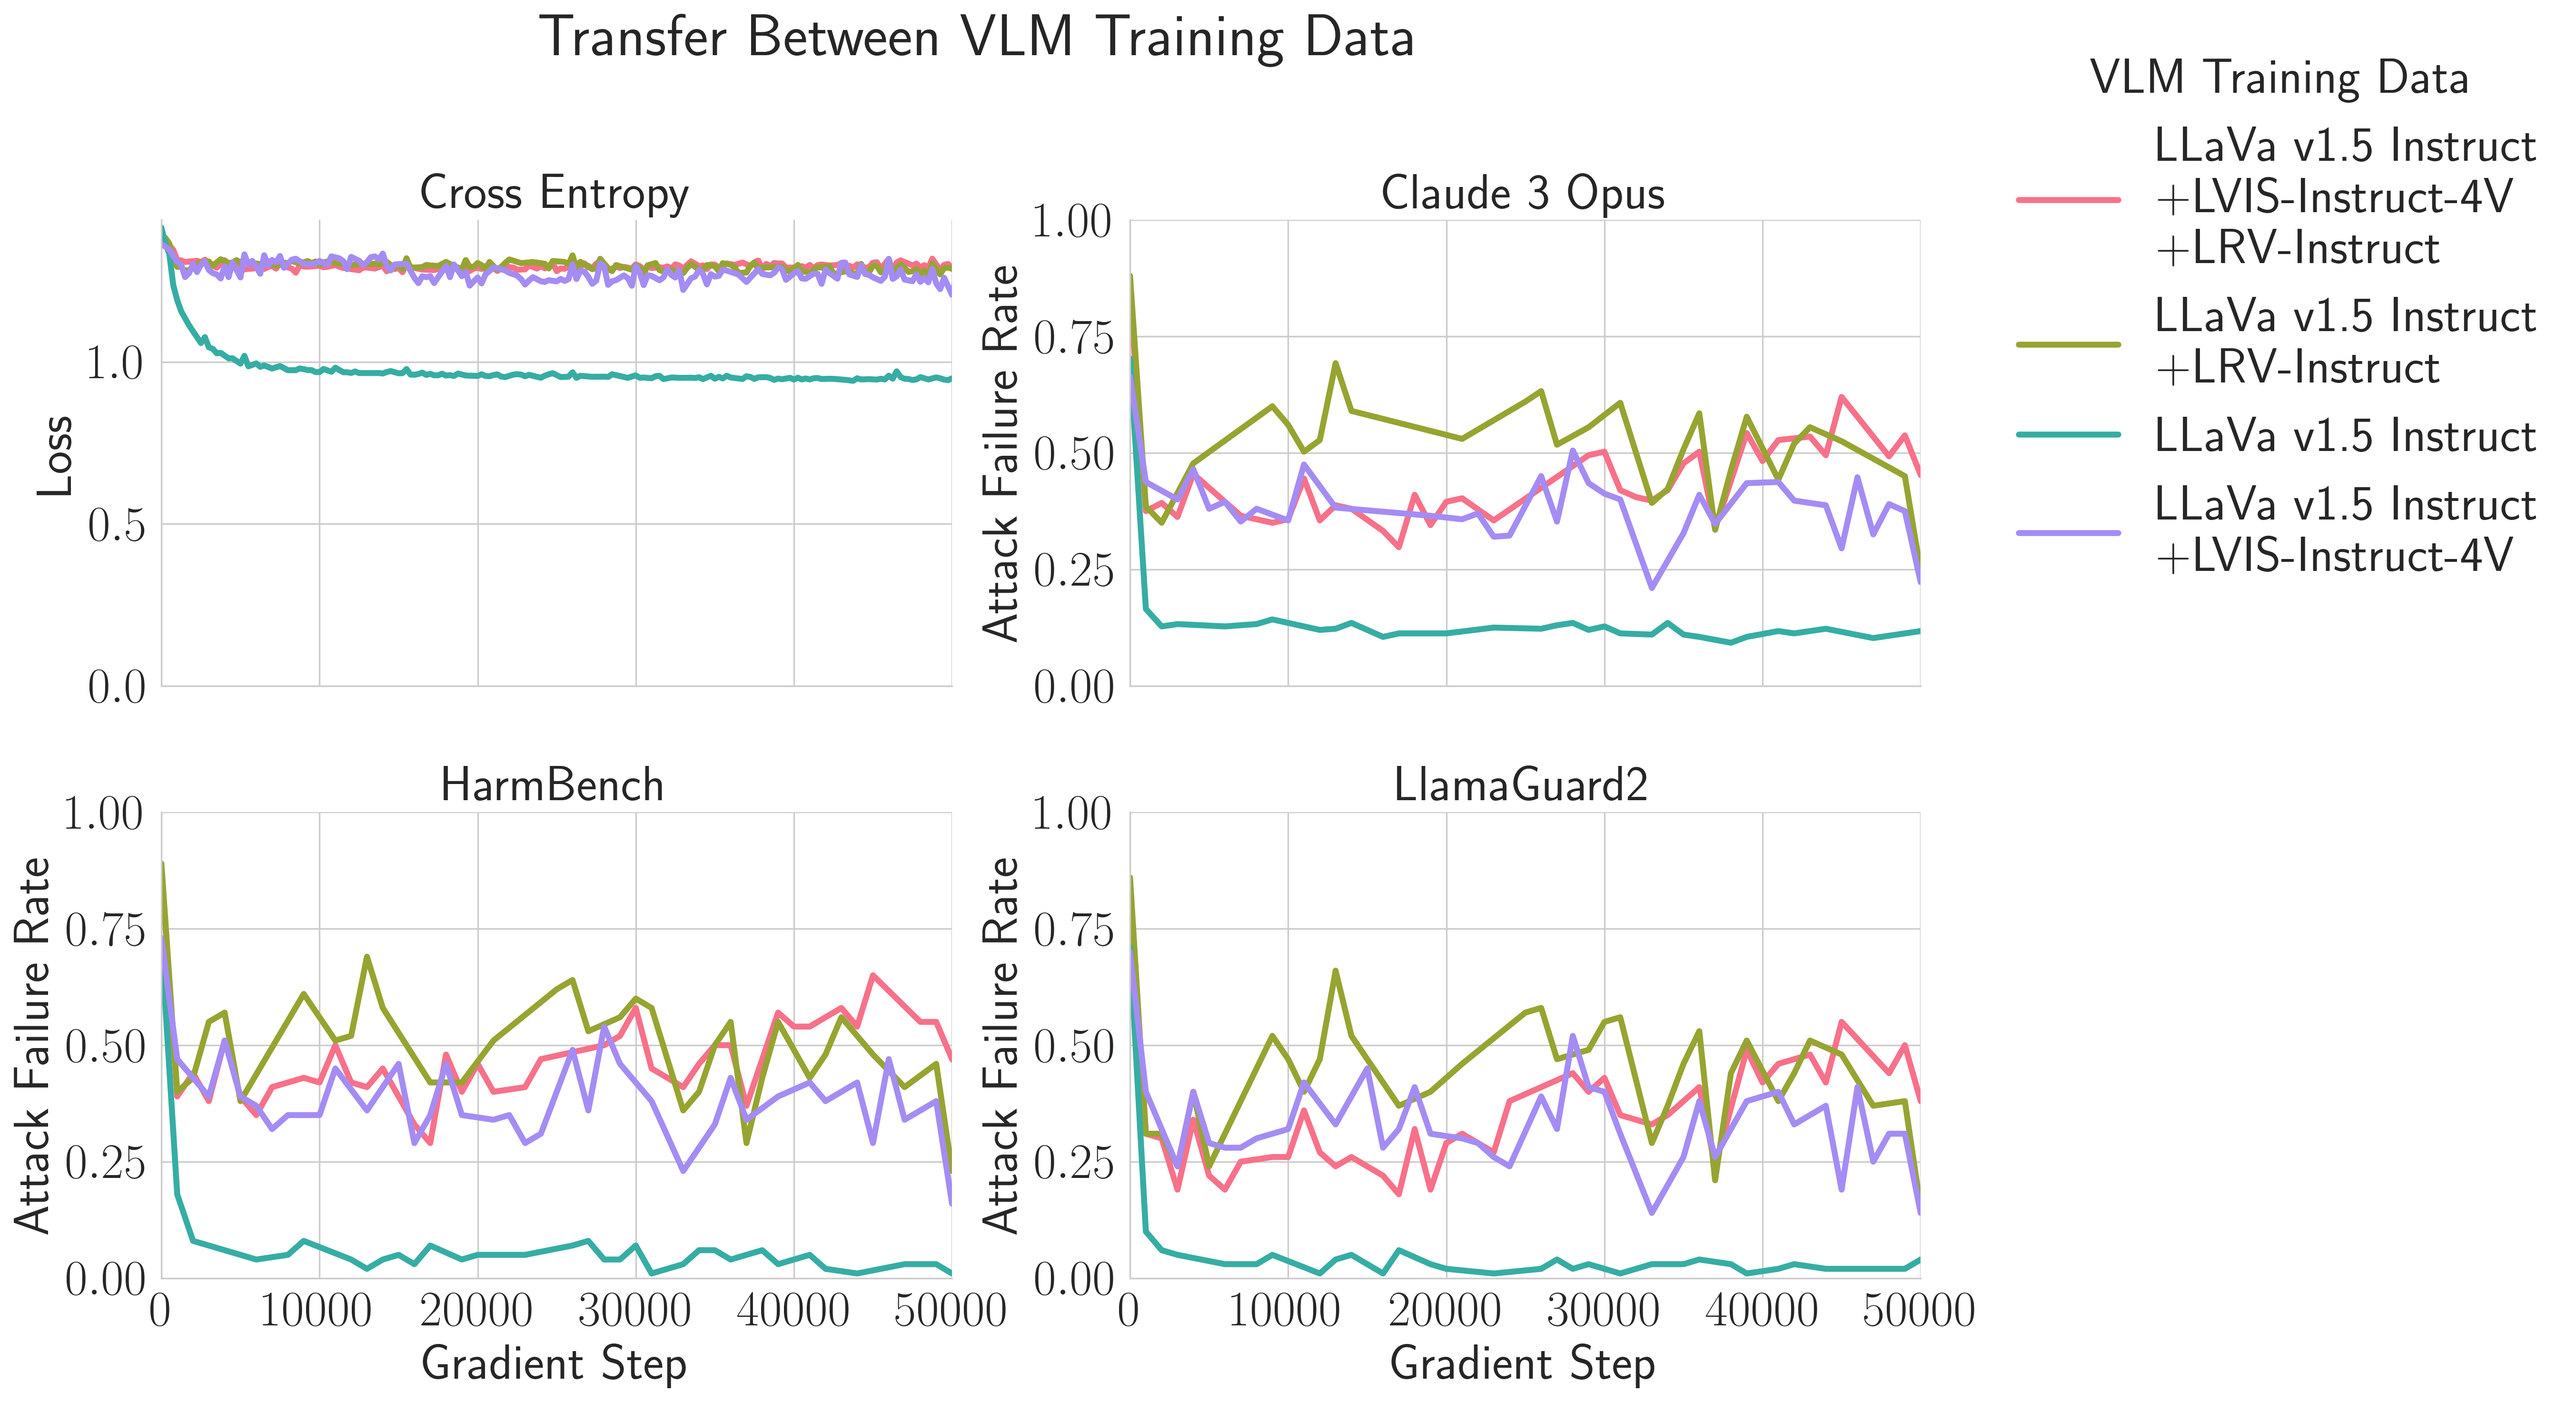
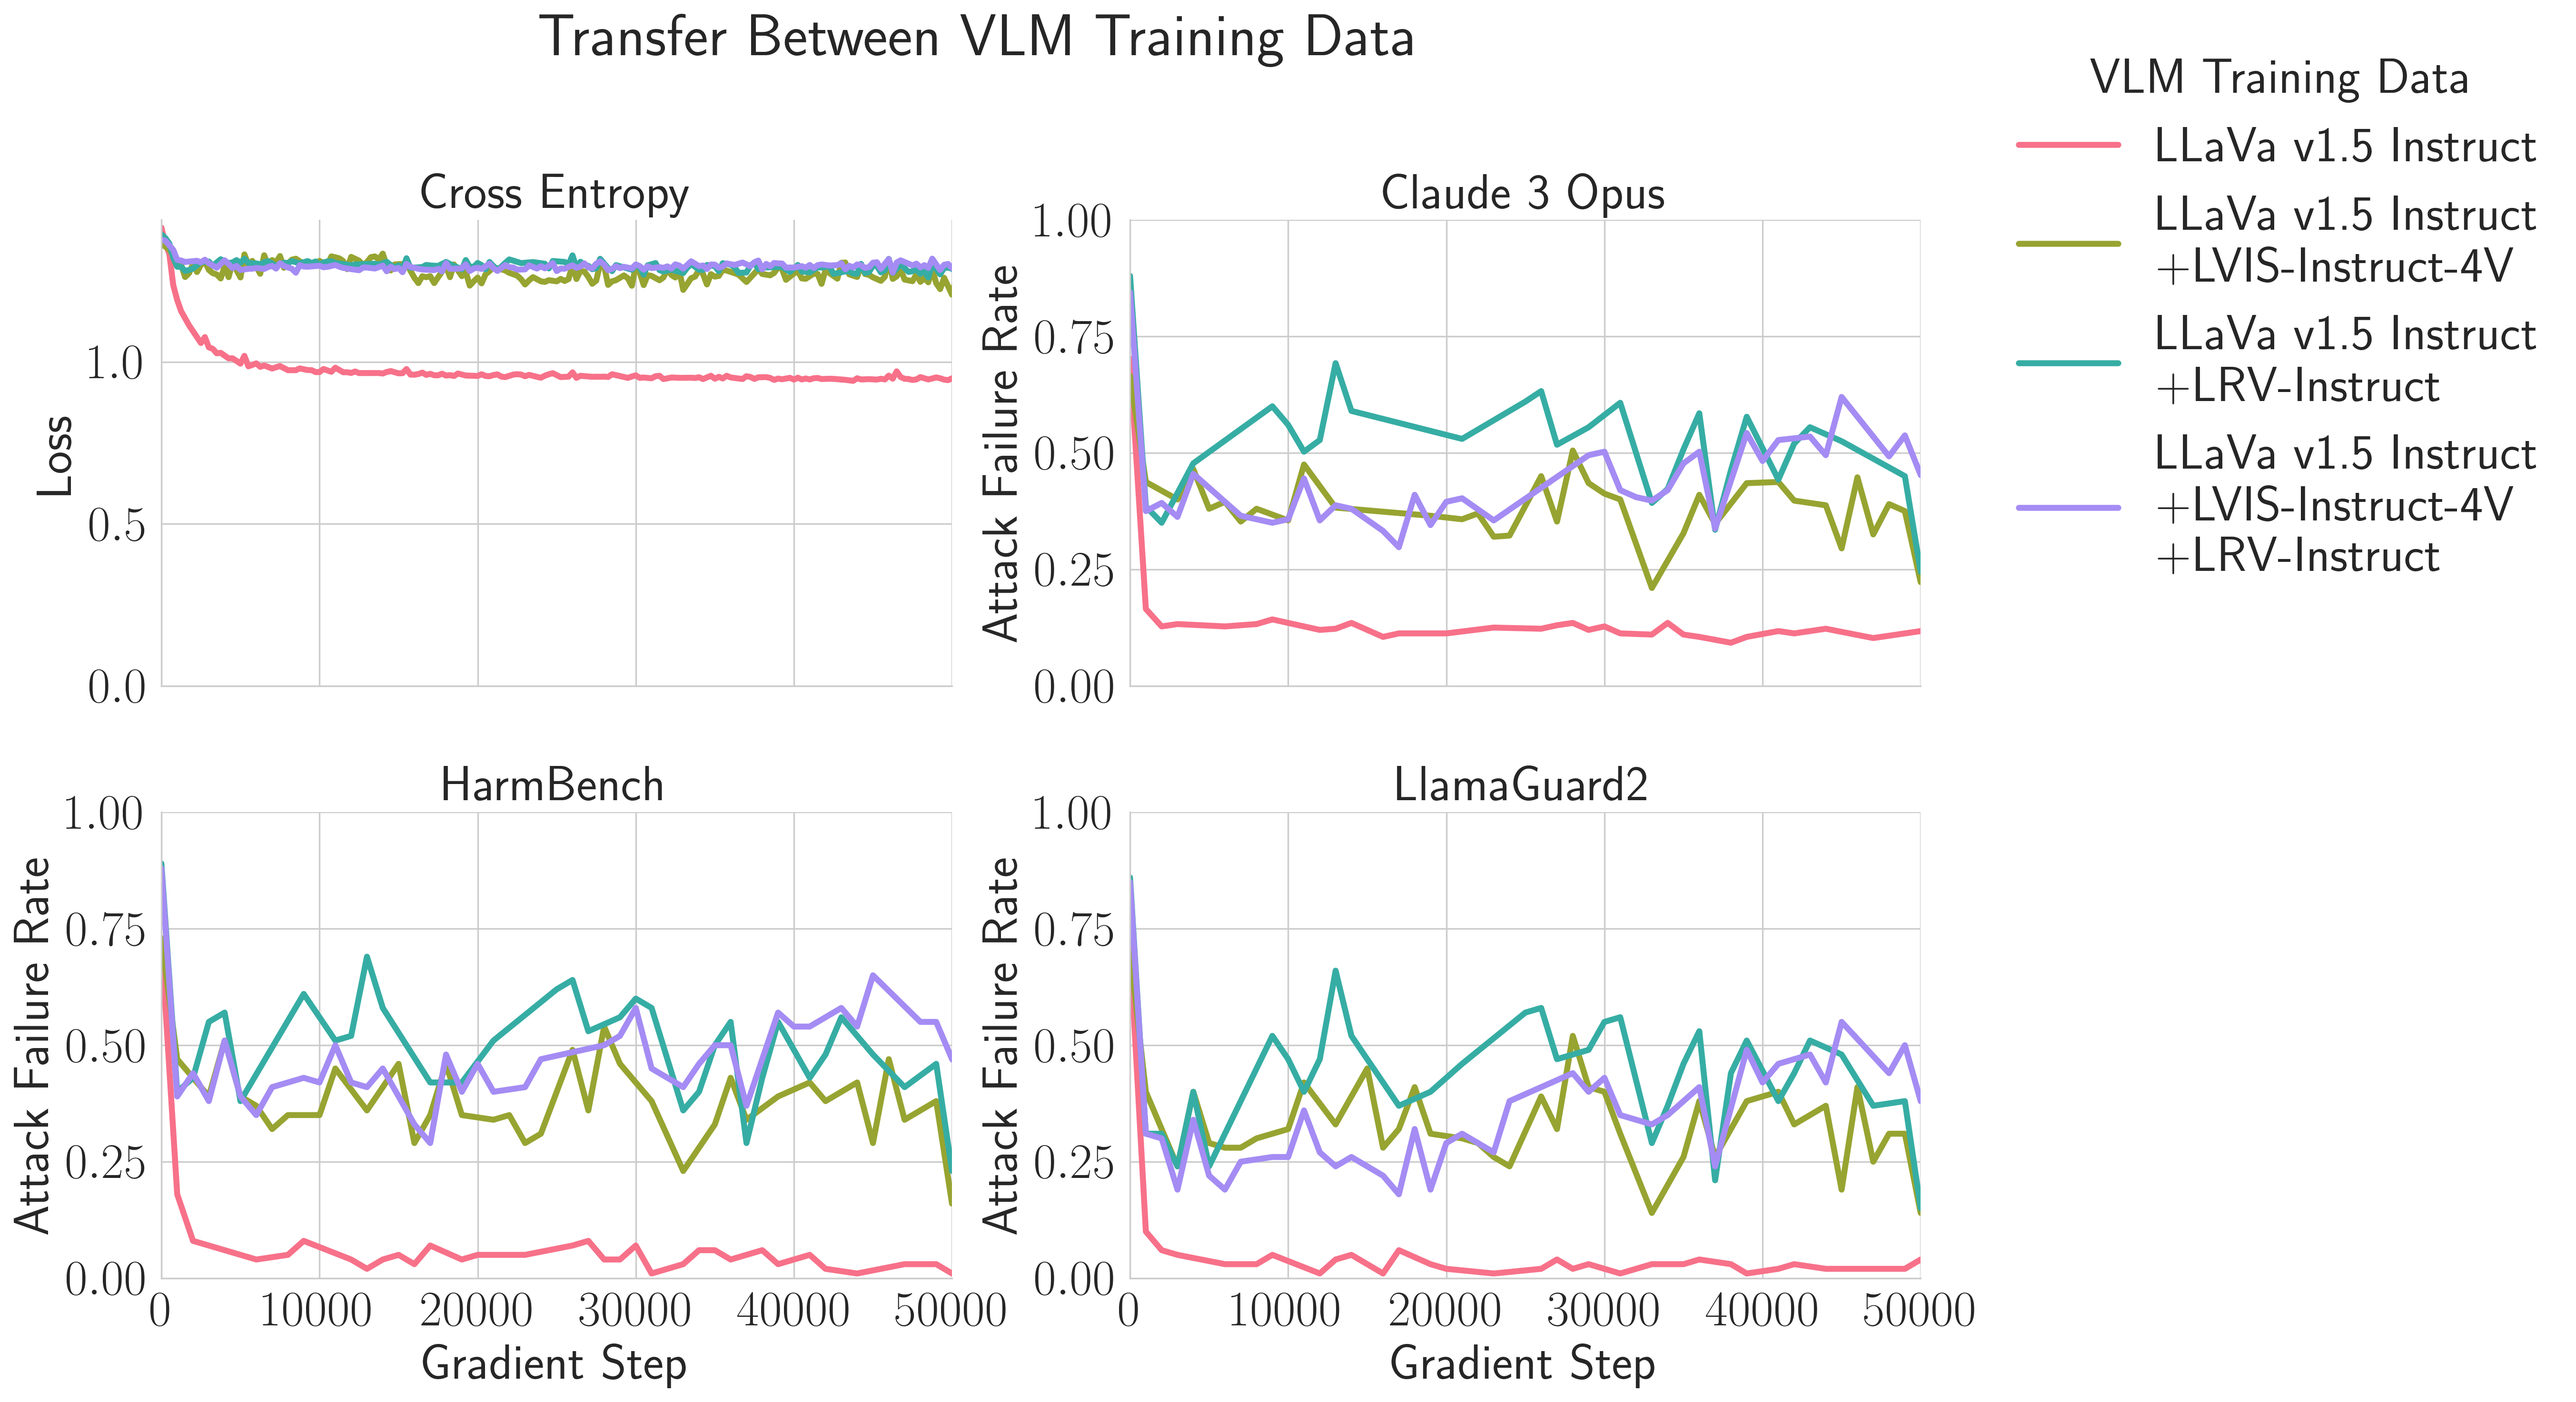
Updated notebook 05 additional vlm data

diff --git a/notebooks/05_additional_vlm_data/05_additional_vlm_data.py b/notebooks/05_additional_vlm_data/05_additional_vlm_data.py
@@ -162,6 +162,9 @@ eval_model_training_data = {
     "{'llava-lrv+7b'}": "LLaVa v1.5 Instruct\n+LRV-Instruct",
     "{'llava-lvis4v-lrv+7b'}": "LLaVa v1.5 Instruct\n+LVIS-Instruct-4V\n+LRV-Instruct",
 }
+eval_model_nice_strings_order = [
+    eval_model_training_data[model] for model in eval_model_order
+]
 
 additional_epochs_eval_runs_histories_df = eval_runs_histories_df[
     (eval_runs_histories_df["Attacked Model"] == "{'one-stage+7b'}")
@@ -218,6 +221,7 @@ g = sns.relplot(
     col_order=unique_metrics_nice_strings_order,
     col_wrap=2,
     hue="VLM Training Data",
+    hue_order=eval_model_nice_strings_order,
     palette=sns.color_palette("husl", len(eval_model_order)),
     linewidth=3,
     facet_kws={"margin_titles": True, "sharey": False},
